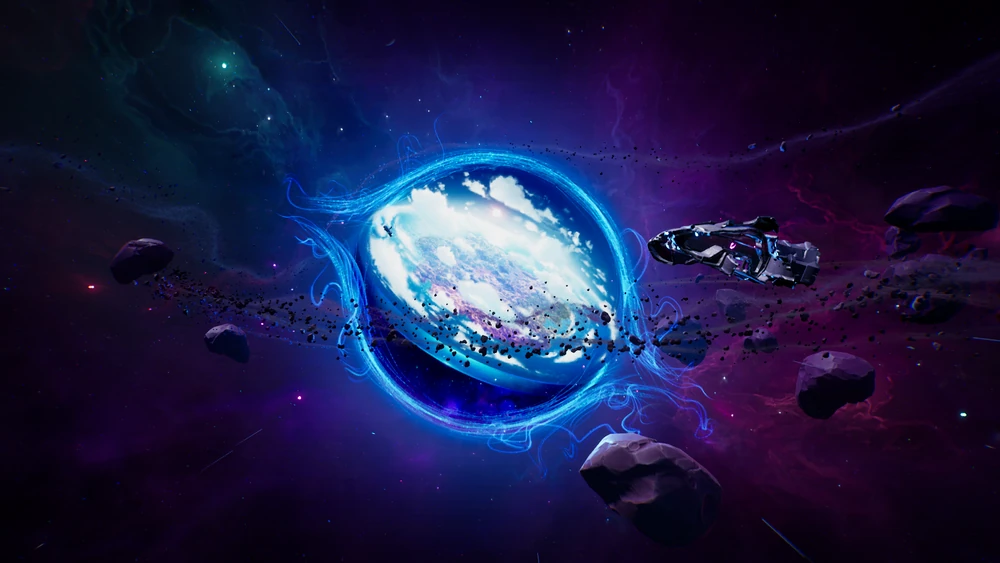
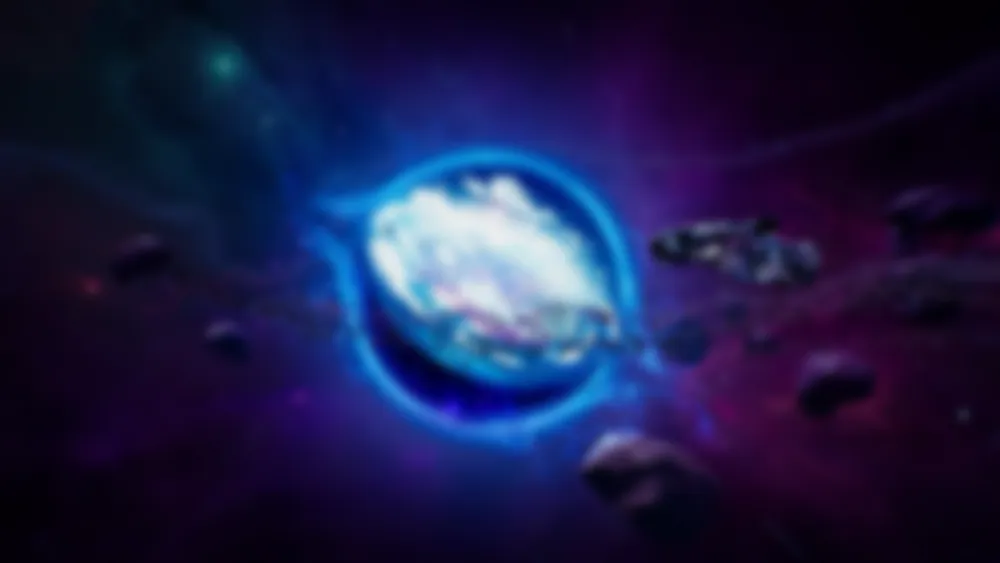
FINALLY fixed the background me thinks

diff --git a/css/style.css b/css/style.css
@@ -99,7 +99,7 @@ main p {
 
 .container-main {
   border: 1px solid var(--line-clr);
-  border-radius: 1.5em;
+  border-radius: 2.5rem;
   margin-bottom: 20px;
   margin-right: 10rem;
   padding: min(3em, 15%);
@@ -473,12 +473,12 @@ details[open] div {
   padding: 2rem;
   gap: 2rem;
   background-color: rgb(from var(--container-clr) r g b / 0.65);
-  backdrop-filter: blur(4px);
+  backdrop-filter: blur(20px);
   /* adds the blur effect */
-  -webkit-backdrop-filter: blur(4px);
+  -webkit-backdrop-filter: blur(20px);
   /* Safari support */
   border: 1px solid var(--line-clr);
-  border-radius: 1.5rem;
+  border-radius: 2.5rem;
   box-shadow: 0 5px 8px #0000009a;
   flex-wrap: wrap;
 }
@@ -657,5 +657,10 @@ details[open] div {
   .story-image-outline:hover {
     transform: none;
     border: none;
+  }
+
+  .settings-section {
+    margin-left: 0.15rem;
+    margin-right: 0.15rem;
   }
 }

diff --git a/css/index.css b/css/index.css
@@ -138,8 +138,8 @@
 
 @media(max-width: 910px) {
     .container {
-        margin-left: 1rem;
-        margin-right: 1rem;
+        margin-left: 0.15rem;
+        margin-right: 0.15rem;
         padding: 1.5em;
         box-shadow: 0 5px 8px #0000009a;
         text-align: left;

diff --git a/stories/stories-FoE.html b/stories/stories-FoE.html
@@ -72,6 +72,7 @@
               </li>
         </ul>
     </nav>
+    <div id="background"></div>
     <main>
         <!-- <div class="banner-container">
             <img src="../img/banners/BannerSmall-Mstories.png" alt="ItzBrenden Banner">

diff --git a/stories/stories-R.html b/stories/stories-R.html
@@ -71,6 +71,7 @@
               </li>
         </ul>
     </nav>
+    <div id="background"></div>
     <main>
         <div class="container-wrapper">
             <div class="img-container element-remover-big1">

diff --git a/stories/stories-RB.html b/stories/stories-RB.html
@@ -71,6 +71,7 @@
               </li>
         </ul>
     </nav>
+    <div id="background"></div>
     <main>
         <div class="container-wrapper">
             <div class="img-container element-remover-big1">

diff --git a/stories/stories-ZW.html b/stories/stories-ZW.html
@@ -72,6 +72,7 @@
               </li>
         </ul>
     </nav>
+    <div id="background"></div>
     <main>
         <div class="container-wrapper">
             <div class="img-container element-remover-big1">

diff --git a/stories/stories-FNA0.html b/stories/stories-FNA0.html
@@ -72,6 +72,7 @@
             </li>
         </ul>
     </nav>
+    <div id="background"></div>
     <main>
         <div class="container-wrapper">
             <div class="img-container element-remover-big1">

diff --git a/index.html b/index.html
@@ -73,7 +73,7 @@
       </li>
     </ul>
   </nav>
-      <div id="background"></div>
+  <div id="background"></div>
   <main>
     <div class="container-upper">
       <div class="icon-container">

diff --git a/stories.html b/stories.html
@@ -74,6 +74,7 @@
             </li>
         </ul>
     </nav>
+    <div id="background"></div>
     <main>
         <div class="container-upper">
             <div class="icon-container">

diff --git a/characters.html b/characters.html
@@ -72,6 +72,7 @@
       </li>
     </ul>
   </nav>
+  <div id="background"></div>
   <main>
     <div class="container-upper">
       <div class="icon-container">

diff --git a/portfolio.html b/portfolio.html
@@ -74,6 +74,7 @@
       </li>
     </ul>
   </nav>
+  <div id="background"></div>
   <main>
     <div class="container-upper">
       <div class="icon-container">

diff --git a/profile.html b/profile.html
@@ -69,6 +69,7 @@
       </li>
     </ul>
   </nav>
+  <div id="background"></div>
   <main>
     <div class="container-upper">
       <div class="icon-container">
